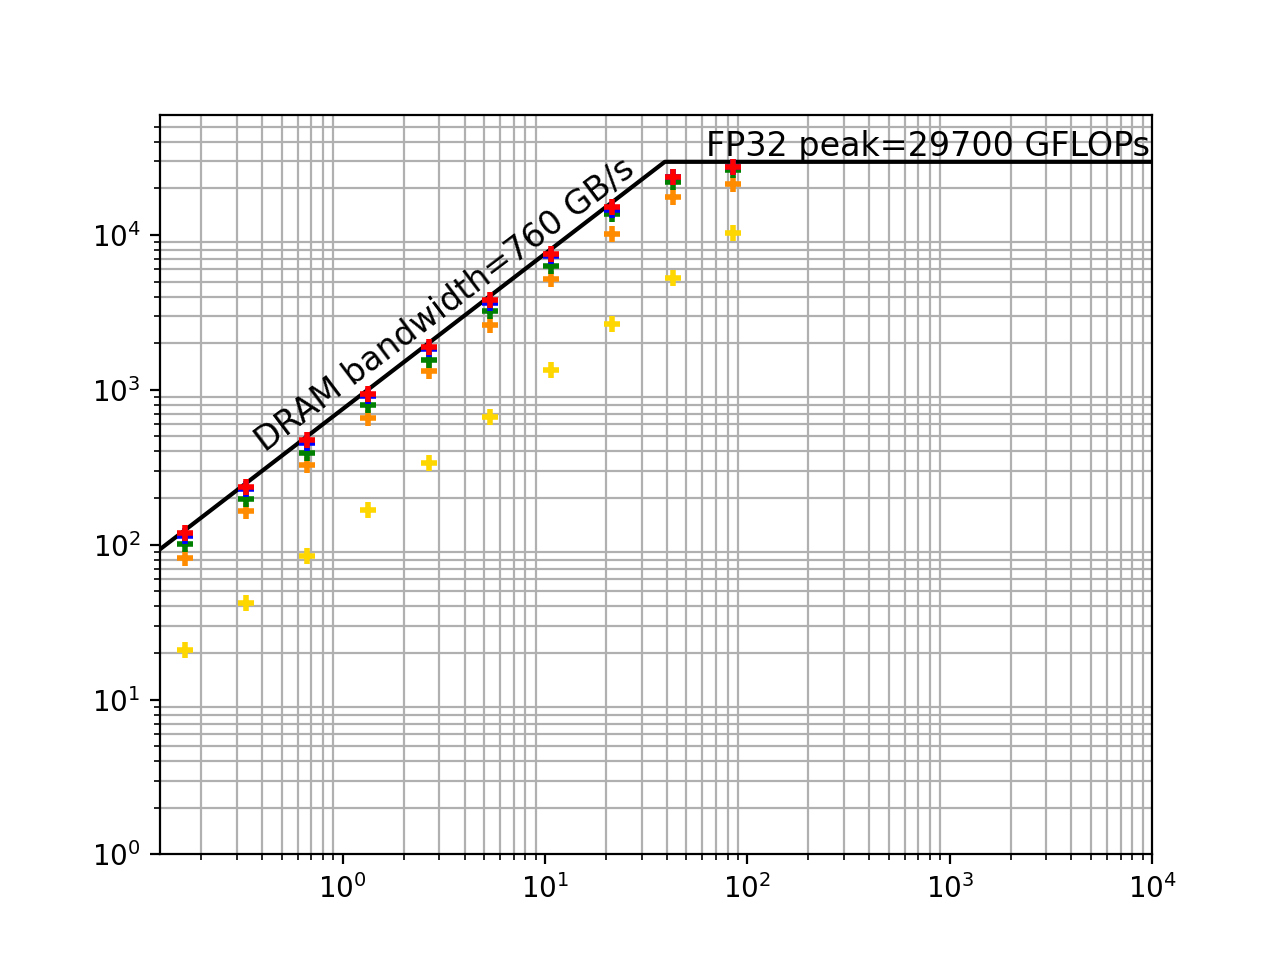
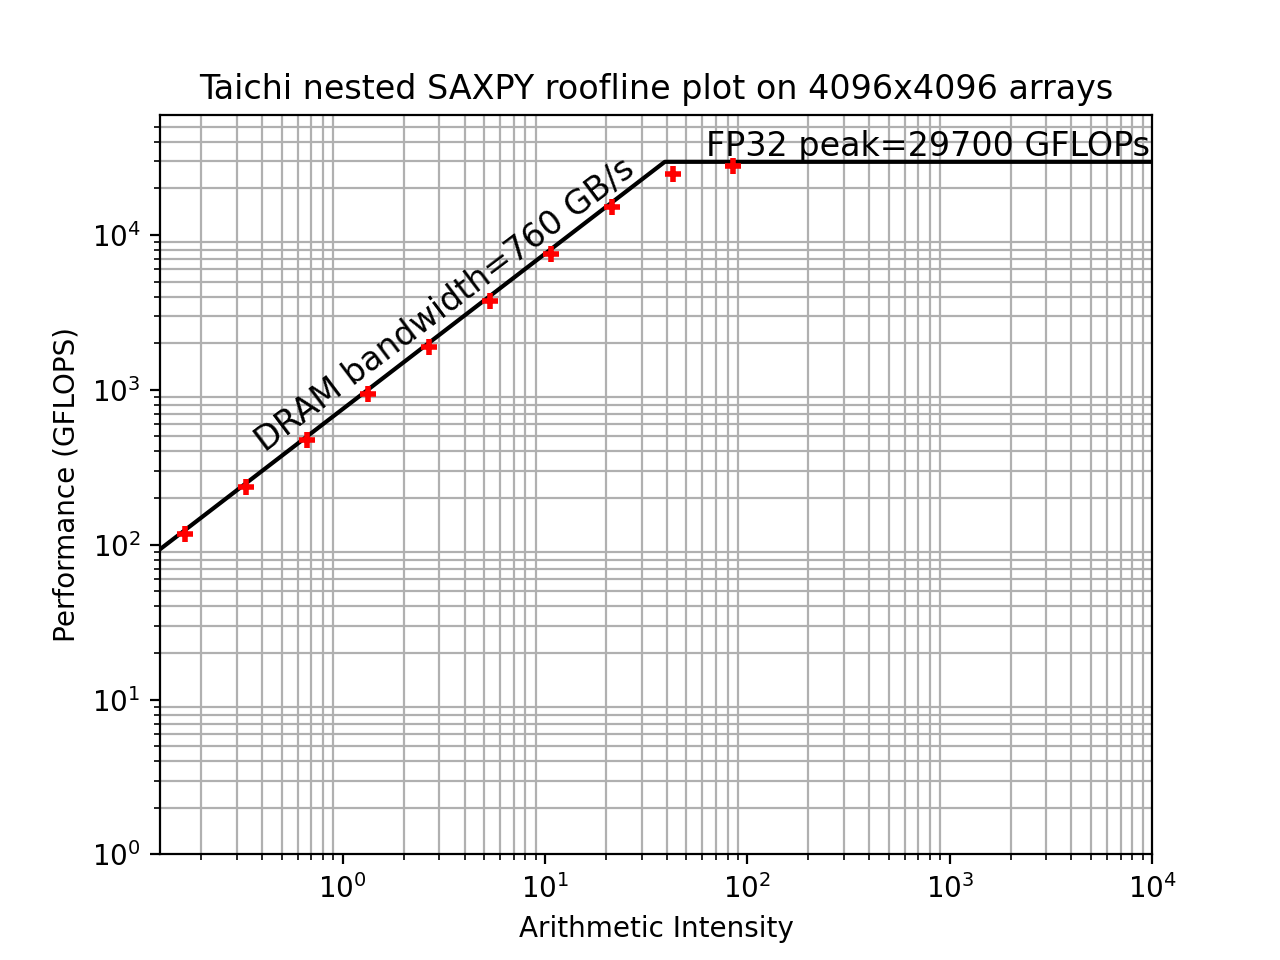
Revise roofline plot

diff --git a/saxpy/plot_roofline.py b/saxpy/plot_roofline.py
@@ -13,6 +13,9 @@ def plot_roofline_log_scale(ax):
     ax.set_yscale('log', base=10)
     ax.set_xlim([2**-3, xlimit])
     ax.set_ylim([1, cc * 2])
+    ax.set_xlabel("Arithmetic Intensity")
+    ax.set_ylabel("Performance (GFLOPS)")
+    ax.set_title("Taichi nested SAXPY roofline plot on 4096x4096 arrays")
     ax.grid(True, "minor")
     membound_str = "DRAM bandwidth=760 GB/s"
     compbound_str = "FP32 peak={} GFLOPs".format(cc)
